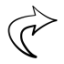
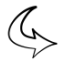
Setting up the foundations for movement targets and pressing go to make monsters move

Changed region(s): [[0.0938, 0.0625, 0.9062, 0.9375]]

diff --git a/Summons/Engine/Actor.cs b/Summons/Engine/Actor.cs
@@ -112,6 +112,8 @@ namespace Summons.Engine
         public bool Selected = false;
         public bool Hovered = false;
         protected Stack<Coordinate> path;
+        public Coordinate finalDestination;  // This is the location to which the actor will head each turn
+        public Coordinate endOfTurnDestination;  // This is final location to which the actor can reach this turn
         double speed = 300.0;
         public Player player;
 
@@ -256,11 +258,14 @@ namespace Summons.Engine
         public int meleeAP, meleeAccuracy, meleeAttacks;
         public int critRate;
         public int armor;
+        public double movement = 5.0;
         public MonsterStatusDialog status;
         double damageTimer = 0.0;
         double fullDamageTime = 0.5;
         protected int previousHP = -1;
         public int manaCost = 20;
+        public bool movedThisTurn = false;
+
 
         public Monster(int x, int y, Player player) 
             : base(x, y, player)

diff --git a/Summons/Engine/Assets.cs b/Summons/Engine/Assets.cs
@@ -20,7 +20,7 @@ namespace Summons
         public static Texture2D blackMageActor, blueDragonActor, heavyKnightActor, archerActor, blackKnightActor;
         public static Texture2D uiTexture;
         public static Texture2D meleeIcon, hpIcon, rangedIcon, defenseIcon, manaIcon, towerIcon;
-        public static Texture2D summonIcon, passIcon;
+        public static Texture2D summonIcon, passIcon, goIcon;
         public static Texture2D playerOneSymbol, playerTwoSymbol;
         public static Texture2D plainTexture;
         public static SpriteFont mainFont;
@@ -59,6 +59,7 @@ namespace Summons
             towerFlag = content.Load<Texture2D>("UI/flag");
             summonIcon = content.Load<Texture2D>("UI/summon_icon");
             passIcon = content.Load<Texture2D>("UI/curved_arrow");
+            goIcon = content.Load<Texture2D>("UI/go_arrow");
 
             // Load player symbols
             playerOneSymbol = content.Load<Texture2D>("UI/player1_symbol");

diff --git a/Summons/Engine/Dialog.cs b/Summons/Engine/Dialog.cs
@@ -246,7 +246,7 @@ namespace Summons.Engine
     public class PlayerActionDialog : Dialog
     {
         static int width = 64;
-        static int height = 192;
+        static int height = 256;
 
         public PlayerActionDialog()
             : base(32,
@@ -257,8 +257,11 @@ namespace Summons.Engine
             // Summon button
             this.buttonCollection.Add(new SummonMenuButton(this));
 
+            // Monster move button
+            this.buttonCollection.Add(new GoButton(this, 0, 80));
+
             // Pass turn button
-            this.buttonCollection.Add(new PassTurnButton(this, 0, 80));
+            this.buttonCollection.Add(new PassTurnButton(this, 0, 160));
         }
     }
 

diff --git a/Summons/Engine/Button.cs b/Summons/Engine/Button.cs
@@ -166,6 +166,18 @@ namespace Summons.Engine
         }
     }
 
+    public class GoButton : Button
+    {
+        public GoButton(Dialog parent, int x = 0, int y = 0)
+            : base(parent, Assets.goIcon, "Move", x, y, FontSize.SMALL)
+        { }
+
+        public override void ClickHandler()
+        {
+            // Have all monsters move as far as they can
+        }
+    }
+
     public class SummonMonsterButton : Button
     {
         public Monster monster;
